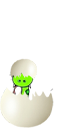
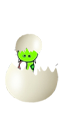
修正了拖拽的音效。

diff --git a/eggsnake/src/com/maple/eggsnake/stage/content/Box2DStage.java b/eggsnake/src/com/maple/eggsnake/stage/content/Box2DStage.java
@@ -38,13 +38,14 @@ public class Box2DStage extends BaseStage implements LogicalGameListener {
 		if (true) {
 			instance = new Box2DStage(Gdx.graphics.getWidth(),
 					Gdx.graphics.getHeight(), true, gate, screen);
-		} else {
-			try {
-				instance.gotoGate(gate);
-			} catch (Exception e) {
-				e.printStackTrace();
-			}
 		}
+//		else {
+//			try {
+//				instance.gotoGate(gate);
+//			} catch (Exception e) {
+//				e.printStackTrace();
+//			}
+//		}
 		return instance;
 	}
 
@@ -53,6 +54,7 @@ public class Box2DStage extends BaseStage implements LogicalGameListener {
 	private Box2DStage(float width, float height, boolean stretch, int gate,
 			NavigateScreen screen) {
 		super(width, height, stretch);
+		this.debugCamera = new OrthographicCamera();
 		this.screen = screen;
 		logger = DefaultLogger.getDefaultLogger();
 		this.gate = 0;
@@ -124,8 +126,8 @@ public class Box2DStage extends BaseStage implements LogicalGameListener {
 		if (controller.getWorld() != null) {
 			controller.update(dt);
 			this.debugCamera.update();
-			//render.render(controller.getWorld(), this.debugCamera.combined);
-		//	this.debugCamera.apply(Gdx.gl10);
+//			render.render(controller.getWorld(), this.debugCamera.combined);
+//			this.debugCamera.apply(Gdx.gl10);
 		}
 	}
 

diff --git a/eggsnake/src/com/maple/eggsnake/actor/game/CircleSnakeActor.java b/eggsnake/src/com/maple/eggsnake/actor/game/CircleSnakeActor.java
@@ -66,11 +66,7 @@ public class CircleSnakeActor extends BodyAttachedActor {
 			String m = (String) body.getUserData();
 			m = m.substring("CircleSnake_".length());
 			this.texture = 	ResourceLoader.loadTexture(m);
-			TextureRegion region = new TextureRegion(texture,0,0,100,100);
-			this.sprite = new Sprite(region);
-//			this.sprite.setRegionWidth(30);
-//			this.sprite.setSize(50, 50);
-//			this.sprite.setSize(20, 20);
+			this.sprite = new Sprite(texture);
 		}
 	}
 
@@ -85,8 +81,8 @@ public class CircleSnakeActor extends BodyAttachedActor {
 					body.getPosition().y - r, 0);
 			float angle = this.body.getAngle();
 			this.sprite.setRotation((float) (angle * 180 / 3.14));
-			this.sprite.setPosition(pos.x * B2Const.CONVERTRATIO , pos.y
-					* B2Const.CONVERTRATIO );
+			this.sprite.setPosition(pos.x * B2Const.CONVERTRATIO - 5, pos.y
+					* B2Const.CONVERTRATIO - 28);
 			this.sprite.draw(batch);
 
 		} catch (Exception e) {

diff --git a/eggsnake/src/com/maple/eggsnake/service/SoundManager.java b/eggsnake/src/com/maple/eggsnake/service/SoundManager.java
@@ -1,5 +1,6 @@
 package com.maple.eggsnake.service;
 
+import com.badlogic.gdx.Gdx;
 import com.badlogic.gdx.audio.Sound;
 
 public class SoundManager {
@@ -21,7 +22,7 @@ public class SoundManager {
 		if (contactSound == null) {
 			contactSound = ResourceLoader.loadSound("contact_sound.ogg");
 		}
-		contactSound.play();
+		//contactSound.play();
 	}
 
 	public static void playCrossGateSound() {

diff --git a/eggsnake/src/com/maple/eggsnake/logical/WorldController.java b/eggsnake/src/com/maple/eggsnake/logical/WorldController.java
@@ -333,7 +333,8 @@ public class WorldController {
 
 		if (this.hitBody != null) {
 			if (this.hitBody != this.lastBody) {
-				if ("CircleSnake".equals(this.hitBody.getUserData())) {
+				String name = (String) this.hitBody.getUserData();
+				if (name !=null && name.startsWith("CircleSnake")) {
 					if (this.judge != null)
 						this.judge.onAiming();
 				}
